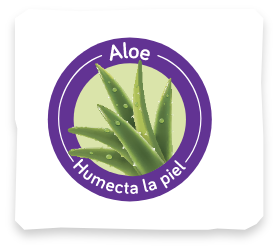
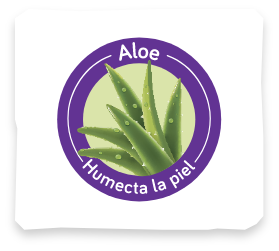
general changes

Changed region(s): [[0.172, 0.1394, 0.8029, 0.8088]]

diff --git a/src/data/products.js b/src/data/products.js
@@ -5,7 +5,7 @@ import productSkin from '../assets/HOME/empaque-pureskin@2x.png';
 import contentSombra from '../assets/HOME/manchon-pureskin@2x.png';
 import selloAgua from '../assets/HOME/Sellos/99_agua.svg';
 import selloAlgodon from '../assets/HOME/Sellos/algodon.png';
-import selloAlgodonAleo from '../assets/HOME/Sellos/super-acolchada.svg';
+import selloAlgodonAleo from '../assets/HOME/Sellos/super-acolchada.png';
 import selloFree from '../assets/HOME/Sellos/libre-plastico.svg';
 import selloAlcohol from '../assets/HOME/Sellos/alcohol-parabenos.svg';
 import hechasConAgua from '../assets/new-sellos/hechas-con-agua.png';
@@ -24,7 +24,7 @@ import bgAloe from '../assets/HOME/acuarela-aloe@2x.png';
 import titleAloe from '../assets/HOME/alore-vera.svg';
 import productAloe from '../assets/HOME/empaque-aloe@2x.png';
 import contentSombraAloe from '../assets/HOME/manchon-aloe@2x.png';
-import selloHumecta from '../assets/HOME/Sellos/humecta-piel.svg';
+import selloHumecta from '../assets/HOME/Sellos/humecta-piel.png';
 import titleDetailProductAleo from '../assets/PRODUCTOS/frase-etapa-ALOE.svg';
 import imageDetailAleo from '../assets/PRODUCTOS/empaque-aloe@2x.png';
 import moreProductAelo24 from '../assets/PRODUCTOS2/aloex24.png';
@@ -69,7 +69,7 @@ export const dataProducts = [
         id: 1,
         image: selloFree,
         title: 'Tela libre de plástico',
-        description: 'Ahora su tela es hecha con fibras de origen natural y biodegradables.',
+        description: 'Su tela es hecha con fibras de origen natural y biodegradables.',
       },
       {
         id: 2,
@@ -79,21 +79,21 @@ export const dataProducts = [
       },
       {
         id: 3,
-        image: selloAlcohol,
-        title: '',
-        description: '0% Alcohol y parabenos*Los parabenos son preservantes y algunos de ellos están prohibidos porque no se ha comprobado su seguridad.',
-      },
-      {
-        id: 4,
         image: selloAlgodon,
         title: '',
         description: 'Tela suave como el algodón, gruesa y resistente.',
       },
       {
+        id: 4,
+        image: selloAlcohol,
+        title: '',
+        description: '0% Alcohol y parabenos*Los parabenos son preservantes y algunos de ellos están prohibidos porque no se ha comprobado su seguridad.',
+      },
+      {
         id: 5,
         image: selloLigero,
         title: '',
-        description: 'Ahora con nuestras toallitas húmedas libres de plástico, hemos rediseñado nuestros empaques, logrando que sean más ligeros y con menos plástico, que los hace más amigables con el planeta.',
+        description: 'Hemos rediseñado nuestros empaques, logrando que sean más ligeros y con menos plástico, que los hace más amigables con el planeta.',
       },
       {
         id: 6,
@@ -160,18 +160,12 @@ export const dataProducts = [
       },
       {
         id: 4,
-        image: selloLigero,
-        title: '',
-        description: 'Ahora con nuestras toallitas húmedas libres de plástico, hemos rediseñado nuestros empaques, logrando que sean más ligeros y con menos plástico, que los hace más amigables con el planeta.',
-      },
-      {
-        id: 5,
         image: cubreLaBoca,
         title: '',
         description: '',
       },
       {
-        id: 6,
+        id: 5,
         image: hechasConAgua,
         title: '',
         description: '',
@@ -223,7 +217,7 @@ export const dataProducts = [
         id: 1,
         image: selloFree,
         title: 'Tela libre de plástico',
-        description: 'Hecha con fibras de origen natural y biodegradables',
+        description: 'Su tela es hecha con fibras de origen natural y biodegradables.',
       },
       {
         id: 2,
@@ -247,11 +241,17 @@ export const dataProducts = [
         id: 5,
         image: selloLigero,
         title: '',
-        description: 'Ahora con nuestras toallitas húmedas libres de plástico, hemos rediseñado nuestros empaques, logrando que sean más ligeros y con menos plástico, que los hace más amigables con el planeta.',
+        description: 'Hemos rediseñado nuestros empaques, logrando que sean más ligeros y con menos plástico, que los hace más amigables con el planeta.',
       },
       {
         id: 6,
         image: cubreLaBoca,
+        title: '',
+        description: '',
+      },
+      {
+        id: 7,
+        image: hechasConAgua,
         title: '',
         description: '',
       },

diff --git a/src/components/molecules/Slider/index.js b/src/components/molecules/Slider/index.js
@@ -65,7 +65,7 @@ const Carousel = props => {
     <SliderContainer>
       <Slider 
         {...settings}
-        autoplay={autoplay}
+        autoplay={false}
         arrows={isMobileView ? false : true}
         fade={fade}
         slidesToShow={slidesToShow}
